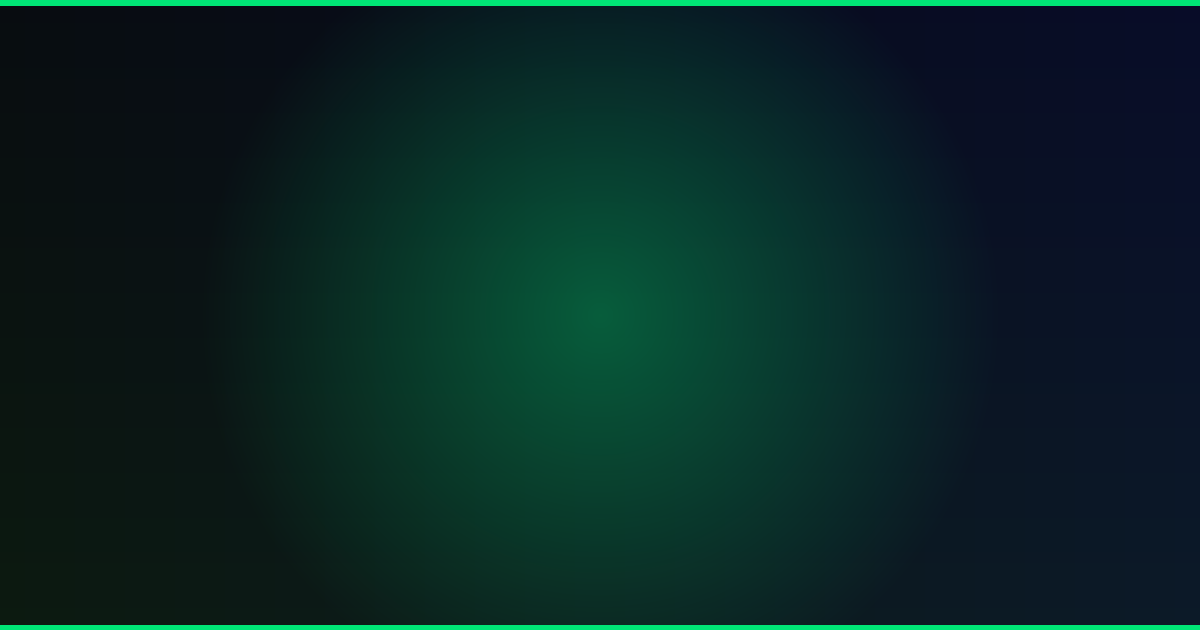
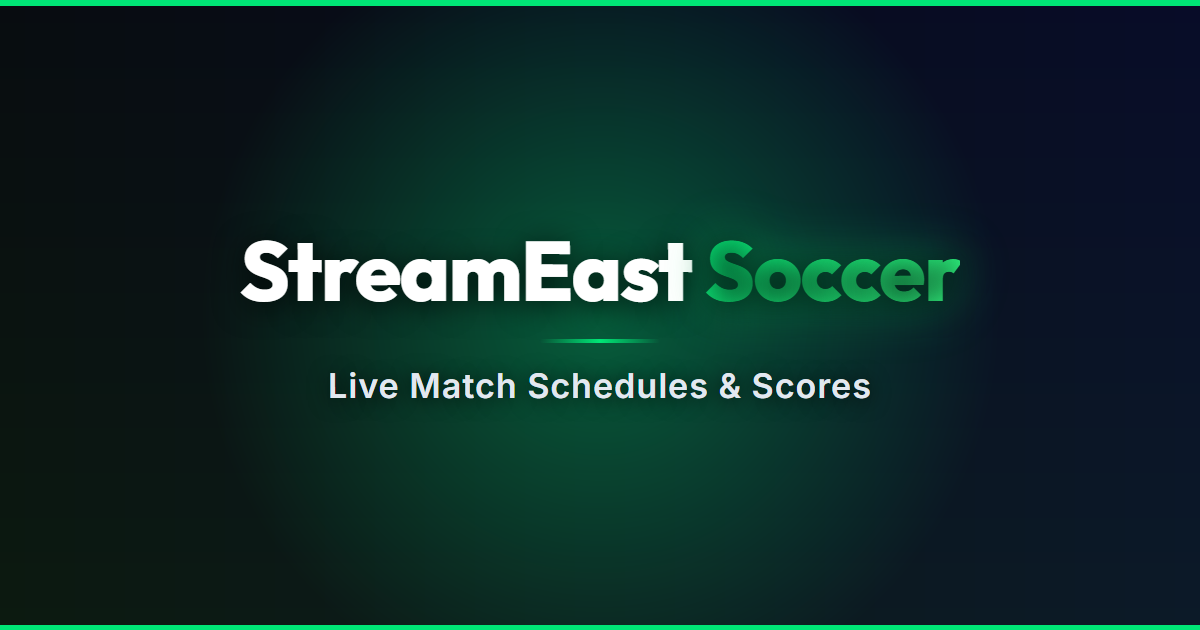
feat: update OG preview image and integrate Google Analytics tag (gtag.js)

Changed region(s): [[0.185, 0.3619, 0.8017, 0.5429], [0.2775, 0.573, 0.74, 0.6333]]

diff --git a/src/utils/seo.js b/src/utils/seo.js
@@ -93,6 +93,15 @@ export function updateSEO({
 
   const schemaToInject = structuredData ? structuredData : baseSchema;
   scriptEl.textContent = JSON.stringify(schemaToInject, null, 2);
+
+  // Synchronize Google Analytics page view on SPA route navigation
+  if (typeof window.gtag === 'function') {
+    window.gtag('event', 'page_view', {
+      page_title: title,
+      page_location: window.location.href,
+      page_path: window.location.pathname
+    });
+  }
 }
 
 /**

diff --git a/index.html b/index.html
@@ -1,6 +1,16 @@
 <!DOCTYPE html>
 <html lang="en">
 <head>
+  <!-- Google tag (gtag.js) -->
+  <script async src="https://www.googletagmanager.com/gtag/js?id=G-832EZJN344"></script>
+  <script>
+    window.dataLayer = window.dataLayer || [];
+    function gtag(){dataLayer.push(arguments);}
+    gtag('js', new Date());
+
+    gtag('config', 'G-832EZJN344');
+  </script>
+
   <meta charset="UTF-8">
   <meta name="viewport" content="width=device-width, initial-scale=1.0">
   
